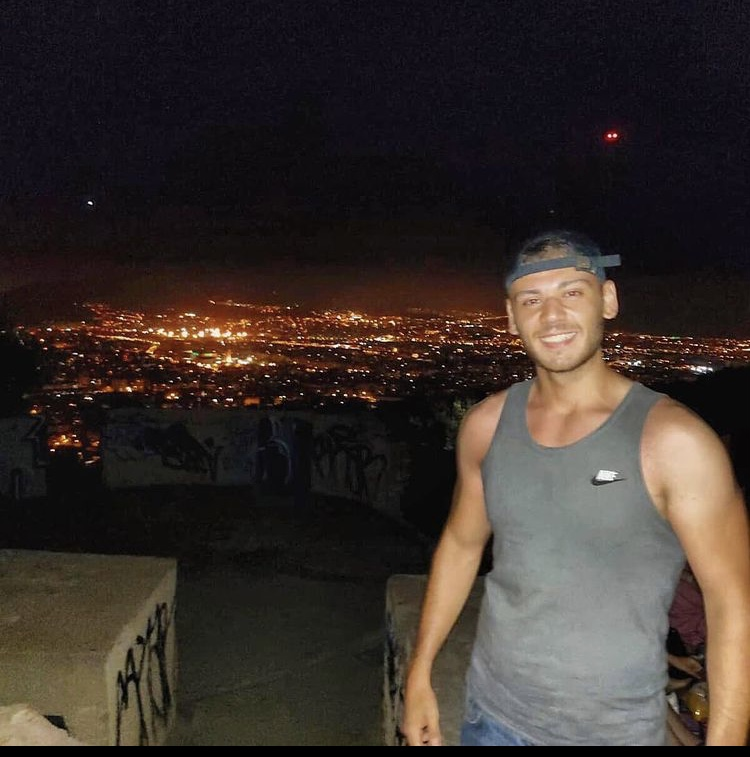
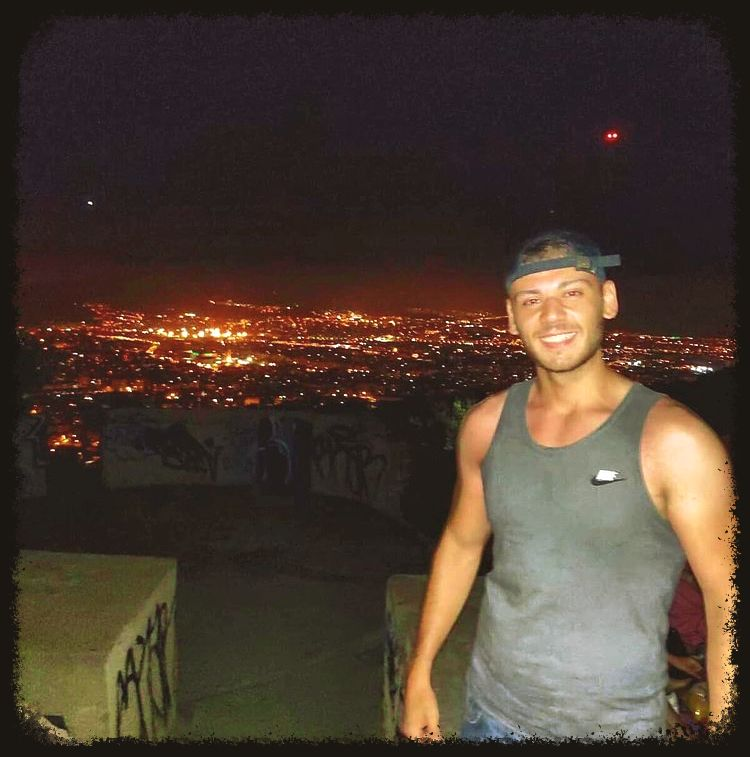
changed style

diff --git a/Home/style.css b/Home/style.css
@@ -6,7 +6,7 @@
 body{margin:0px;}
 
 .Firstpart{background-attachment: fixed;
-    background-image: url(https://t3.ftcdn.net/jpg/03/67/13/74/360_F_367137432_ofpF6Pgb6d3z4KwDHOa0GYV0NaXbht6M.jpg);
+    background-image: url(https://iconwebdesign.com.au/wp-content/uploads/2019/06/Icon-Web-Design-Adelaide-Slider-Background-Image-2019-2.jpg);
     background-size: cover;
     background-repeat: no-repeat;
     width: auto;
@@ -14,33 +14,29 @@ body{margin:0px;}
     margin:0px;
     padding:0px;
 }
-.Firstpart1{background-attachment: fixed;
-    background-image: url(https://lh3.googleusercontent.com/proxy/B-GhVVMyHhVgCWK-Pj-ujoItWP7qXpe7uRUVWNbxVUvAVaS79qShch7NsWjMIFHUjLuNL6-fyy4W55u5-FlT7e-ofqKM3J63eg2ZSzgqJAqNQtZUvmv9KToJba5GYg);
-    background-size: cover;
-    background-repeat: no-repeat;
-    width: auto;
-    height: auto;
-    margin:0px;
-    padding:0px;
-}
+
 
 
 .Freespace1{
     
     height:20em;
-    background-image:url(https://i.pinimg.com/originals/89/bf/4c/89bf4ca8fc6d9dc4aa488a888965c39f.jpg);
+    background-image:url(https://ajahne.github.io/blog/assets/images/header.jpg);
     background-size: cover;
     background-attachment: fixed;
 }
 
 
 .Secondpart{
+    display: flex;
+    flex-direction:row;
+    justify-content: space-around;
+    padding:3em;
     background-attachment: fixed;
-    background-image: url(https://www.chiefsalesleader.com/wp-content/uploads/2018/02/TheNaviGuide%E2%84%A2-Maze-Background.jpg);
+    background-image: url(https://images2.alphacoders.com/480/thumb-1920-480530.png);
     background-size: cover;
     background-repeat: no-repeat;
     width: auto;
-    height: 20em;
+    height: auto;
     margin:auto;
     color: white;
     
@@ -107,12 +103,14 @@ span{
     color: white;
 }
 
+
 #pic{display: flex;
     flex-direction: row;
     justify-content: center;
     margin: auto;
-    width: 25em;
-    border-radius: 700px;
+    padding-top:3em;
+    padding-bottom:3em;
+    width: 30em;
     animation-name: fall;
     animation-duration: 9s;
 }
@@ -169,4 +167,24 @@ button{
     top:10px;
     right:10px;
     color: white;
+}
+
+
+.card {
+  /* Add shadows to create the "card" effect */
+  border-radius:20px;
+  margin-top:2em;
+  margin-bottom:2em;
+  box-shadow: 0 4px 8px 0 rgba(0, 0, 0, 0.842);
+  transition: 0.3s;
+}
+
+/* On mouse-over, add a deeper shadow */
+.card:hover {
+  box-shadow: 0 8px 16px 0 rgba(0,0,0,0.2);
+}
+
+/* Add some padding inside the card container */
+.container {
+  padding: 2px 16px;
 }

diff --git a/Home/home.html b/Home/home.html
@@ -21,8 +21,8 @@
 
 <span style="font-size:30px;cursor:pointer" onclick="openNav()">&#9776; </span>
 
-
-    <div><img id="pic" src="../img/Bild1.jpg" alt=""></div>
+  
+    <div><img id="pic" src="../img/hintergrundbildportf.jpg" alt=""></div>
     
     <div class="text"><p>My name is Mehmet Can. and i'm a Full Stack Developer. <br>
       My Hobbies are quite simple:Sports(Boxing),meet friends, and have a good time :) .
@@ -44,13 +44,29 @@
                         <img  class="rest mest"  src="../img/001-api.png" alt="">
     </div>
   </div>
-  <section class="button1">too dark?<button>Change</button></section>
+  
 
   <div class="Freespace1">
     
   </div>
   <div class="Secondpart">
-
+    
+    <div class="card">
+    <a href="../Projects/projects.html"><img class="card" src="https://mineshkothari.com/static/assets/images/about/glasses-on-laptop.jpg" alt="Avatar" style="width:200px; height:250px;"></a>
+  <div class="container">
+    <h4><b>Projects</b></h4>
+    
+    
+  </div>
+</div>
+        <div class="card">
+    <a href="../Contact/contact.html"><img class="card" src="https://lh3.googleusercontent.com/proxy/ss6j4j-sT4xTxMWcvno9XWJnoRPyFxsArQqZKe0DSu1AzdNhv2vfXZybtbg68pWQYG19dIozs0KPsQ16aFjd5OtlwoxNuubbqrlSg9raXOwY5ZLL8mOTX-GGHViSdk2XcqvT" alt="Avatar" style="width:200px; height:250px;"></a>
+  <div class="container">
+    <h4><b>Contact</b></h4>
+    
+    
+  </div>
+</div>
     
   </div>
   </div>
